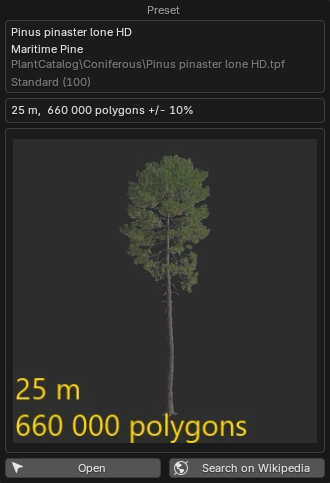
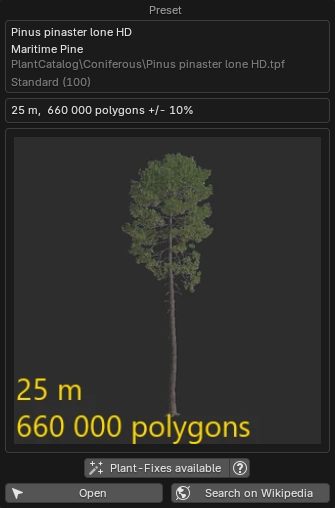
1.0.4

diff --git a/docs/getting_started.md b/docs/getting_started.md
@@ -27,8 +27,10 @@ tags:
 
 ## Installation
 
+Since the addon relies on the PlantFactory application for importing plants, it must be installed. Additionally, there are free plant libraries that can be installed. While these libraries are optional, they provide a significant portion of the available functionality, and skipping them may limit your experience.
+
 === "Addon"
-    To start using PF2B, you need to install the add-on in Blender. Follow these steps:
+    To install PF2B inside Blender. Follow these steps:
 
     1. Download the PF2B add-on zip file from the store you purchased it from.
     ![Addon Location](images/addon-install.webp){ .img-box .on-glb align=right width=31% }
@@ -40,20 +42,97 @@ tags:
     !!! info2 "Updates"
         For updates, simply download the updated add-on manually from the store where you purchased it, uninstall the old version and reinstall the new using the same steps outlined in the instructions above.
 
-=== "PlantFactory & Libraries"
-    Since the addon relies on the PlantFactory application for importing plants, it must be installed. Additionally, there are free plant libraries that can be installed. While these libraries are optional, they provide a significant portion of the available functionality, and skipping them may limit your experience.
 
-    Follow these steps to install PlantFactory and the necessary libraries:
+=== "PlantFactory Application"
+    Follow these steps to install PlantFactory:
 
-    1. If you haven’t already installed PlantFactory, download it (approximately 1.6 GB in size) from [Bentley’s official website](https://www.bentley.com/software/e-on-software-free-downloads/){ target="_blank" } and follow the on-screen instructions to complete the installation.
-    - The `PlantCatalog` Library can also be downloaded from the same link. It is divided into multiple parts and requires 19.6 GB of space. I highly recommend downloading all parts to access the full plant library.
-    - For additional information about PlantFactory, check out Bentley's FAQ section [here](https://www.bentley.com/software/e-on-software-free-downloads/#faq){ target="_blank" }.
+    1. Download PlantFactory (approximately 1.6 GB in size) from [Bentley’s official website](https://www.bentley.com/software/e-on-software-free-downloads/){ target="_blank" }. For additional information about PlantFactory, check out Bentley's FAQ section [here](https://www.bentley.com/software/e-on-software-free-downloads/#faq){ target="_blank" }
+    ![PlantFactory installation](images/installation/plantfactory_installer.webp){ .img-box .on-glb width=40% }
+
+    - After downloading, you should have a `.zip` file containing the installer.
+    ![PlantFactory installation](images/installation/plantfactory_installer_zip.webp){ .img-box .on-glb }
+
+    - Extract the contents of the `.zip` file. To do this, right-click on the file and choose "Extract" (or use a third-party program such as 7-Zip if you prefer).
+
+    - After extracting, you should see the installer file named "**Setup (Win).exe**". Run this installer and follow the on-screen instructions to complete the installation.
+    ![PlantFactory installation](images/installation/plantfactory_installer_extracted.webp){ .img-box .on-glb }
+
+        ??? info2 "Detailed Installer Instructions"
+            When running the installer, you will be presented with the following steps. Any steps without options can be skipped by simply clicking "Next."
+
+            ![PlantFactory installation](images/installation/installer_step1.webp){ .img-box .on-glb }
+
+            <br>
+
+            **Installation Folders**:<br>
+            Here, you can select where to install the **PlantFactory application**. At the bottom (inside the red box), you’ll see the location of the **PlantFactory plant library**, which contains the plants that come with the application. It is generally recommended to leave these paths as default, but if you need to change them, you can do so here.
+            !!! warning ""
+                Please note that if you change these paths, you must update the paths in the addon preferences to point to the correct installation locations. See the bottom of these instructions for more details on how to do this.
+
+            ![PlantFactory installation](images/installation/installer_pf-library-path.webp){ .img-box .on-glb }
+
+            <br>
+
+            **Plug-ins**:<br>
+            At this stage, you’ll be presented with options to install PlantFactory plug-ins for other 3D software such as 3DS Max, Cinema 4D, Maya, or Unreal Engine. If you use any of these programs, you can select the appropriate options, and the installer will add Eon Software's plug-ins for integration with those applications. Note that Blender is not listed here, as it is handled by the PF2B add-on. Installing or selecting any of these plugins will not affect PF2B, so feel free to choose the options that suit your needs.
+
+            ![PlantFactory installation](images/installation/installer_plugins.webp){ .img-box .on-glb }
+
+            <br>
+
+            After these steps, there may be a few more "Next" clicks, and then the installation will begin.
+
+    - Once installation is completed, proceed to the next section to install the [PlantCatalog Plant Library](#installation-plantcatalog-plant-library).
+
+
 
     !!! warning ""
         If you install PlantFactory or the libraries in a **non-default location**, you need to adjust the paths in the preferences:
 
         - `Preferences > General > PlantFactory Location` – Set the path to the PlantFactory application.
         - `Preferences > Plant Library > Libraries` – Set the path to the root folder containing both the PlantCatalog and PlantFactory libraries.
+
+
+=== "PlantCatalog Plant Library"
+    The PlantCatalog is the primary plant library used in PF2B and contains most of the plants. You can read more about the library [here](plants.md#plantcatalog-library) and see this FAQ question: [Do I have to install the entire PlantCatalog library?](support/faq.md#do-i-have-to-install-the-entire-plantcatalog-library). Follow these steps to install the PlantCatalog plant library:
+
+    1. Download the `PlantCatalog` Library files from [Bentley’s official website](https://www.bentley.com/software/e-on-software-free-downloads/){ target="_blank" }. The library is divided into multiple parts, requiring 19.6 GB of space. To ensure full functionality, download all **13 parts** of the library.<br>
+    ![PlantCatalog Library installation](images/installation/plantcatalog_installers.webp){ .img-box width=40% }
+
+    - After downloading, you should have multiple `.zip` files. Each `.zip` contains an installer for the library.
+    ![PlantFactory installation](images/installation/plantcatalog_installer_zip.webp){ .img-box }
+
+    - **Extract the contents** of each `.zip` file. Right-click on each `.zip` file and choose "Extract" (or use a third-party program like 7-Zip, if preferred).
+
+    - **Repeat** this extraction process for all 13 `.zip` files. After extracting, you will find the installer file named "**Setup (Win).exe**" in each folder.
+
+    - **Run each installer** individually by double-clicking on the "**Setup (Win).exe**" file and follow the on-screen instructions to complete the installation. You will need to repeat this for each `.zip` file.
+    ![PlantFactory installation](images/installation/plantcatalog_installer_extracted.webp){ .img-box }
+
+        ??? info2 "Detailed Installer Instructions"
+            When running the installer, you will be presented with the following steps. Any steps without options can be skipped by simply clicking "Next."
+
+            ![PlantFactory installation](images/installation/plantcatalog_installer_step1.webp){ .img-box }
+
+            <br>
+
+            **Installation Folders**:<br>
+            Here, you can select where to install the **PlantCatalog Library**. It is generally recommended to leave these paths as default, but if you need to change them, you can do so here.
+            !!! warning ""
+                - If you choose to change the installation path, make sure to install all remaining parts of the library **in the same director**y to ensure everything is properly organized.
+                - Please note that if you change the installation path, you must update the path in the addon preferences to point to the correct installation location.
+
+            ![PlantFactory installation](images/installation/plantcatalog_installer_library-path.webp){ .img-box }
+
+    - Once installation is completed for all the `.zip` files, proceed to the next section as you are now done with all installation steps.
+
+    !!! warning ""
+        If you install PlantFactory or the libraries in a **non-default location**, you need to adjust the paths in the preferences:
+
+        - `Preferences > General > PlantFactory Location` – Set the path to the PlantFactory application.
+        - `Preferences > Plant Library > Libraries` – Set the path to the root folder containing both the PlantCatalog and PlantFactory libraries.
+
+
 
 After installing everything above, make sure to **read the sections below**, as they contain important information about required cache files for the addon.
 

diff --git a/docs/workflow/browse_via_blender.md b/docs/workflow/browse_via_blender.md
@@ -45,8 +45,9 @@ The queue system lets you add multiple plants to a queue, which you can then imp
 
 ![plant gallery top panel](../images/queue.webp){ .img-box align=left }
 
-- :octicons-info-16:: Opens a popup that displays information about the plant. ![plant gallery top panel](../images/queue_info-popup.webp){ .img-box .on-glb align=right width=27% data-description="Info Popup"}
+- :octicons-info-16:: Opens a popup that displays information about the plant. ![plant gallery top panel](../images/queue_info-popup.webp){ .img-box .on-glb align=right width=27% data-description="Info popup"}
     - **Open**: Open this plant in the Plant Browser.
+    - **Plant-Fixes available**: This button will appear if there are [Plant-Fixes](../support/pf2b_under_the_hood.md#plant-fixes-system) available for the plant. When clicked, it will display all the fixes applied during the import of this plant.
     - **Search on Wikipedia**: lets you search for the plant species on Wikipedia; hold down Shift while clicking to search on DuckDuckGo instead.
 - **Quantity**: The number field lets you specify how many of this plant will be imported.
 - :fontawesome-regular-trash-can:: Delete the plant from the queue.
@@ -90,6 +91,7 @@ If we look at an individual plant inside the gallery we have the following butto
 - **Presets**: Opens the presets gallery for this plant.
 - **Select**: Selects the plant and closes down the plant gallery.
 - **:octicons-info-16:**: Opens a popup that displays information about the plant. ![plant gallery top panel](../images/gallery_plants_plant-example_popup.webp){ .img-box }
+    - **Plant-Fixes available**: This button will appear if there are [Plant-Fixes](../support/pf2b_under_the_hood.md#plant-fixes-system) available for the plant. When clicked, it will display all the fixes applied during the import of this plant.
     - **Search on Wikipedia**: lets you search for the plant species on Wikipedia; hold down Shift while clicking to search on DuckDuckGo instead.
 
 <div style="clear:both"></div>
@@ -114,6 +116,7 @@ If we look at an individual presets inside the gallery we are presented with dep
 
     - **Select**: Selects the plant and closes down the plant gallery.
     - **:octicons-info-16:**: Opens a popup that displays information about the plant. ![plant gallery top panel](../images/gallery_presets_preset-example_popup.webp){ .img-box  }
+        - **Plant-Fixes available**: This button will appear if there are [Plant-Fixes](../support/pf2b_under_the_hood.md#plant-fixes-system) available for the plant. When clicked, it will display all the fixes applied during the import of this plant.
 
 === "With 'Queue' button"
     ![Preset example with queue button](../images/gallery_presets_preset-example-with-queue-button.webp){ .img-box align=left  }
@@ -121,3 +124,4 @@ If we look at an individual presets inside the gallery we are presented with dep
     - **Add to Queue**: Adds the preset to the queue. For more information about the queue system, please see the [Queue](#queue) section.
     - **Select**: Selects the plant and closes down the plant gallery.
     - **:octicons-info-16:**: Opens a popup that displays information about the plant. ![plant gallery top panel](../images/gallery_presets_preset-example_popup.webp){ .img-box  }
+        - **Plant-Fixes available**: This button will appear if there are [Plant-Fixes](../support/pf2b_under_the_hood.md#plant-fixes-system) available for the plant. When clicked, it will display all the fixes applied during the import of this plant.

diff --git a/docs/changelog.md b/docs/changelog.md
@@ -12,12 +12,26 @@ Here, you can find a list of all updates, enhancements, and bug fixes made to PF
 
 <div class="changelog" markdown>
 
-<!-- ### 1.0.4 <small>2025-03-xx</small>
+### 1.0.4 <small>2025-03-22</small>
 
 - **Improved Functionality**
-    - The info button, available when browsing plants in the Gallery View or using the queue function, now shows if plant fixes are available and includes a button to display the specific fixes applied to the plant.
+    - **Improved Info Button:** The info button, available when browsing plants in the Gallery View or using the queue function, now shows if plant fixes are available and includes a button to display the specific fixes applied to the plant.
+    - **Separate Plant Library Paths**: The Plant Library paths for PlantCatalog and PlantFactory are now separated, allowing you to store them in different locations while still using them within PF2B.
+    - **Improved Cache Creation**: Creating Plant & Preset Cache now automatically triggers plant re-indexing and thumbnail reloading. Previously, only the "Verify" function triggered this. This should provide a smoother user experience by eliminating the need to manually perform these steps after caching custom plants.
+- **Plant-Fixes**:
+    - **New**:
+        - `PlantCatalog > Broadleaf Trees > Bauhinia blakeana HD V2`
+        - `PlantCatalog > Broadleaf Trees > Bauhinia blakeana LD V2`
+        - `PlantCatalog > Broadleaf Trees > Rhizophora forest HD`
+        - `PlantCatalog > Broadleaf Trees > Rhizophora forest LD`
+        - `PlantCatalog > Broadleaf Trees > Rhizophora lone HD`
+        - `PlantCatalog > Broadleaf Trees > Rhizophora lone LD`
+        - `PlantCatalog > Broadleaf Trees > Rhizophora seedling HD`
+        - `PlantCatalog > Broadleaf Trees > Rhizophora seedling LD`
+        - `PlantCatalog > Climbers > Hedera helix wall climber green HD`
+        - `PlantCatalog > Climbers > Hedera helix wall climber green LD`
 
---- -->
+---
 
 ### 1.0.3 <small>2025-03-19</small>
 

diff --git a/docs/preferences/plant_library.md b/docs/preferences/plant_library.md
@@ -1,10 +1,12 @@
 ![Preferences - Plant Library](../images/preferences_plant-library.webp){ .img-box align=left }
 
-## Library Location
+## Libraries
 
-This is the location of the PlantLibrary root folder, which should contain both PlantFactory and PlantCatalog folders. The interface will indicate whether the PlantCatalog, PlantFactory, or both libraries are found.
+Here you can adjust the locations of your plant libraries. These usually don’t need to be changed if you’ve installed everything in the default location, but you can adjust them if needed. The interface will indicate if the libraries are found.
 
-- **Personal Library**: Enable this option if you have custom plants to include, and select the folder containing them. This folder can contain subfolders to organize the plants into categories.
+- **PlantCatalog**: The location of the PlantCatalog library folder, which should contain categorized subfolders for each plant type. Within these subfolders, you should find the actual `.tpf` plant files. Read more [here](../getting_started.md#installation-plantfactory--libraries) about how to install this library.
+- **PlantFactory**: The location of the PlantFactory library folder, which should contain multiple subfolders, including the `Species` folder that holds the actual `.tpf` plant files. This library contains the plants that ship with the PlantFactory application itself.
+- **Personal**: Enable this option if you have custom plants to include, and select the folder containing them. This folder can contain subfolders to organize the plants into categories.
 
     !!! info2 "Note"
         Only plants that are saved in `.tpf` file format are handled, so if you have plants that you have saved in the default PlantFactory `.tpfp` format, please save them inside PlantFactory as a `.tpf` file by going to `File > Export > Export as Species`.

diff --git a/docs/support/faq.md b/docs/support/faq.md
@@ -208,6 +208,14 @@ tags:
 ---
 
 
+### Do I have to install the entire PlantCatalog library?
+
+:   No, installing the full library is not required. If you only plan to use the [Browse via PlantFactory](../workflow/browse_via_plantfactory.md) mode, you can skip the installation entirely. However, if you plan to use the [Browse via Blender](../workflow/browse_via_blender.md) mode, you can install only the parts of the library you need. See [How can I hide PlantCatalog plants if I don’t want to install the full library?](#how-can-i-hide-plantcatalog-plants-if-i-dont-want-to-install-the-full-library) for more details.
+
+
+---
+
+
 ### How can I hide PlantCatalog plants if I don’t want to install the full library?
 
 :   If you have not installed the full PlantCatalog library and do not wish to do so (as it is optional), you can run the [Re-Index Plants](../preferences/misc.md#plants-thumbnails) tool to ensure only available plants are shown in your library.

diff --git a/docs/preferences/general.md b/docs/preferences/general.md
@@ -16,7 +16,7 @@
     - Never
 - **Plant Thumbnail Size**: Adjust the size of the plant & preset thumbnails in the main Panel. This does not affect the thumbnail size in the Gallery view as it has its own setting directly available when browsing.
 - **Use Preset Thumbnails**: Enable to display presets with thumbnails. Disable this option to show presets as a simple list.
-- **Hide 'Browse via PlantFactory' mode**: If you only plan to use the **Browse via Blender** mode, you can enable this to hide the mode selection at the top and declutter the interface.
+- **Hide 'Browse via PlantFactory' mode**: If you only plan to use the [Browse via Blender](../workflow/browse_via_blender.md) mode, you can enable this to hide the mode selection at the top and declutter the interface.
 
 ## PlantFactory Location
 
